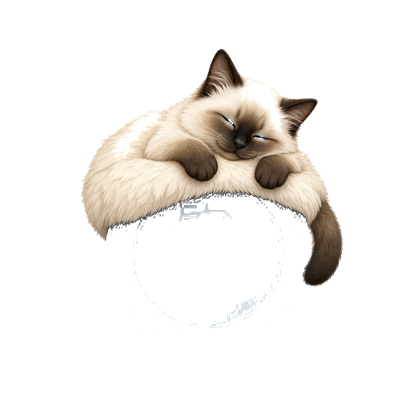
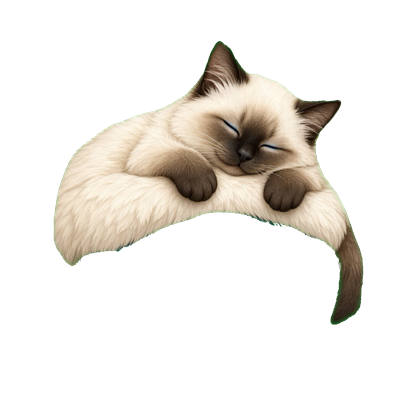
release: v1.4.7（更换暹罗猫主题图）

Changed region(s): [[0.1238, 0.0929, 0.8667, 0.7738], [0.5262, 0.7119, 0.619, 0.7738]]

diff --git a/docs/mockups/ow-hud-demo.html b/docs/mockups/ow-hud-demo.html
@@ -127,6 +127,7 @@ function setTheme(k){
   Array.prototype.slice.call(circle.querySelectorAll('.pxring')).forEach(function(d){d.remove();});
   var oldCat=circle.querySelector('.cat');
   if(oldCat) oldCat.remove();
+  Array.prototype.slice.call(circle.querySelectorAll('.catimg')).forEach(function(d){d.remove();});
   t.icons.forEach(function(ic){
     var d=document.createElement('div');
     d.className='deco';

diff --git a/src/MusicToppin/VersionInfo.cs b/src/MusicToppin/VersionInfo.cs
@@ -6,6 +6,6 @@ using System.Reflection;
 [assembly: AssemblyCompany("Music Toppin")]
 [assembly: AssemblyDescription("直播用「正在播放」悬浮窗")]
 [assembly: AssemblyCopyright("Copyright © 2026")]
-[assembly: AssemblyVersion("1.4.6.0")]
-[assembly: AssemblyFileVersion("1.4.6.0")]
-[assembly: AssemblyInformationalVersion("1.4.6")]
+[assembly: AssemblyVersion("1.4.7.0")]
+[assembly: AssemblyFileVersion("1.4.7.0")]
+[assembly: AssemblyInformationalVersion("1.4.7")]

diff --git a/installer/Installer.cs b/installer/Installer.cs
@@ -12,7 +12,7 @@ internal static class Program
 {
     internal const string AppName = "Music Toppin";
     internal const string AppExe = "MusicToppin.exe";
-    internal const string Version = "1.4.6";
+    internal const string Version = "1.4.7";
 
     private const string UninstallKey = @"Software\Microsoft\Windows\CurrentVersion\Uninstall\MusicToppin";
 

diff --git a/docs/distribution.md b/docs/distribution.md
@@ -36,7 +36,7 @@ signtool sign /fd sha256 /tr http://timestamp.digicert.com /td sha256 /a build\M
 
 ### 2. 版本号与更新日志
 
-已补 `src/MusicToppin/VersionInfo.cs`（当前 `AssemblyVersion 1.4.6.0`），安装器常量同步为 `1.4.6`。
+已补 `src/MusicToppin/VersionInfo.cs`（当前 `AssemblyVersion 1.4.7.0`），安装器常量同步为 `1.4.7`。
 每次发版改这几处：`src/MusicToppin/VersionInfo.cs`、`installer/Installer.cs` 的 `Version`、`CHANGELOG.md`（`MusicToppin.csproj` 仅历史兼容，顺手同步即可）。
 
 ### 3. 杀软白名单（决定"装完还能不能跑"）
@@ -64,7 +64,7 @@ signtool sign /fd sha256 /tr http://timestamp.digicert.com /td sha256 /a build\M
 | 渠道 | 作用 | 优点 | 代价 |
 |---|---|---|---|
 | **自己的落地页**（主） | 下载 + 教程 + 更新说明 | 完全可控、可埋统计、可放 30 秒上手视频 | 要域名/备案（国内服务器） |
-| **蓝奏云**（备） | 国内免登录直链 | 约 932 KB 秒传秒下，最适合小白 | 单文件 100MB 内、偶尔限速 |
+| **蓝奏云**（备） | 国内免登录直链 | 约 956 KB 秒传秒下，最适合小白 | 单文件 100MB 内、偶尔限速 |
 | **GitHub Releases** | 更新源 + 技术用户 | 免费、有 API、可放校验值 | 国内访问慢，需镜像 |
 | **QQ 群 / 微信群** | 种子用户、反馈 | 传播快、能直接收到崩溃反馈 | 人工维护 |
 | **winget** | 技术受众 | `winget install` 一条命令 | 需 PR 到 winget-pkgs，审核慢 |
@@ -93,7 +93,7 @@ signtool sign /fd sha256 /tr http://timestamp.digicert.com /td sha256 /a build\M
 
 ```json
 {
-  "version": "1.4.6",
+  "version": "1.4.7",
   "url": "https://example.com/musictoppin/MusicToppin-Setup.exe",
   "sha256": "7F906ADE…",
   "notes": "修复：解锁后立即回锁\n新增：背景透明度"
@@ -120,7 +120,7 @@ signtool sign /fd sha256 /tr http://timestamp.digicert.com /td sha256 /a build\M
 4. 手测：安装 → 首启向导 → 播放显示 → 穿透 → 卸载
 5. 签名 `MusicToppin.exe`（重新打包）→ 签名 `MusicToppin-Setup.exe`
 6. `Get-FileHash build\MusicToppin-Setup.exe -Algorithm SHA256`
-7. 在版本提交上打 tag（`git tag -a v1.4.6 -m "Music Toppin v1.4.6"`），推送 `main` 和 tag
+7. 在版本提交上打 tag（`git tag -a v1.4.7 -m "Music Toppin v1.4.7"`），推送 `main` 和 tag
 8. GitHub Release：必须已发布（不能 draft / prerelease），确认成为 Latest；只上传一个 `MusicToppin-Setup*.exe`，并确认资产 `digest` 为 `sha256:…` 非空
 9. 上传：落地页 + 蓝奏云 + GitHub Release（附 changelog 与 SHA256）
 10. 发公告（B 站动态 / QQ 群），配一段 30 秒「三步上屏」演示
@@ -133,7 +133,7 @@ signtool sign /fd sha256 /tr http://timestamp.digicert.com /td sha256 /a build\M
 
 > **Music Toppin** —— 开播时自动把「正在播放」显示在画面上。
 >
-> 约 932 KB，免安装运行时，支持网易云 / QQ音乐 / Apple Music / Spotify / 浏览器。
+> 约 956 KB，免安装运行时，支持网易云 / QQ音乐 / Apple Music / Spotify / 浏览器。
 >
 > 1. 双击安装
 > 2. 打开你常用的音乐软件放歌
@@ -156,4 +156,4 @@ signtool sign /fd sha256 /tr http://timestamp.digicert.com /td sha256 /a build\M
 | 平台规则 | — | 直播间挂链接有风险，走粉丝群/简介 |
 | 版权 | — | 只显示元信息，不碰音源；若 V2 内置播放要另外评估 |
 
-**体积是优势**：约 932 KB 的安装包在群文件、网盘、邮件里都几乎瞬传，比动辄 70 MB 的 Electron 方案更容易传播。
+**体积是优势**：约 956 KB 的安装包在群文件、网盘、邮件里都几乎瞬传，比动辄 70 MB 的 Electron 方案更容易传播。

diff --git a/README.md b/README.md
@@ -2,7 +2,7 @@
 
 在游戏 / 直播画面上，用「击杀播报」的方式显示**系统正在播放的音乐**。
 
-纯显示模式不需要登录账号，也不需要配置播放器：装上就自动读当前在放什么。**V2 已加入 B 站弹幕点歌**；点歌按平台登录情况取流，登录是可选的，只影响能放哪些歌。当前版本 **1.4.6**。
+纯显示模式不需要登录账号，也不需要配置播放器：装上就自动读当前在放什么。**V2 已加入 B 站弹幕点歌**；点歌按平台登录情况取流，登录是可选的，只影响能放哪些歌。当前版本 **1.4.7**。
 
 ![击杀播报浮窗](docs/screenshots/hud-stack.png)
 
@@ -199,7 +199,7 @@ Uninstall.exe /S                                      静默卸载
 发布方只需要挂一个静态 JSON：
 
 ```json
-{ "version": "1.4.6", "url": "https://…/MusicToppin-Setup.exe", "sha256": "…", "notes": "更新说明" }
+{ "version": "1.4.7", "url": "https://…/MusicToppin-Setup.exe", "sha256": "…", "notes": "更新说明" }
 ```
 
 - 也直接支持 GitHub Releases API（自动读 `tag_name` + `browser_download_url` + `body`）
@@ -255,8 +255,8 @@ Uninstall.exe /S                                      静默卸载
 
 | 项目 | 实测（本机 Win11，V2 构建，纯显示模式） |
 |---|---|
-| 安装包 | **约 932 KB** |
-| 主程序 | **约 482 KB**（.NET Framework 4.8，系统自带运行时） |
+| 安装包 | **约 956 KB** |
+| 主程序 | **约 505 KB**（.NET Framework 4.8，系统自带运行时） |
 | 内存（私有） | **25–33 MB**（点歌播放时才加载 WebView2，约 +160 MB） |
 | 内存（含共享） | 56 MB |
 | CPU | 空闲 **≈0 %**（500ms 轮询 + 2 秒缓存；点歌播放时由 WebView2 占用） |
@@ -282,9 +282,9 @@ powershell -NoProfile -ExecutionPolicy Bypass -File .\build.ps1
 产物：
 
 ```
-build\app\MusicToppin.exe        约 482 KB
+build\app\MusicToppin.exe        约 505 KB
 build\app\Uninstall.exe          约 15 KB
-build\MusicToppin-Setup.exe      约 932 KB
+build\MusicToppin-Setup.exe      约 956 KB
 ```
 
 构建链路：`toolchain.ps1` 定位 Roslyn `csc`（`Microsoft.Net.Compilers.Toolset`）、.NET Framework 4.8 引用程序集、WinRT 元数据（`Microsoft.Windows.SDK.Contracts`）→ 编译主程序（引用 `Windows.Media.winmd` 调 SMTC）→ 编译卸载器 → 打包 payload → 嵌入安装器。
@@ -394,7 +394,7 @@ Uninstall.exe /S                              静默卸载
 
 > 弹幕「连上了但收不到」的完整复盘与排查方法：[docs/postmortem-danmaku.md](docs/postmortem-danmaku.md)
 
-播放依赖 **WebView2 Runtime**（Windows 11 自带；Windows 10 一般随 Edge 安装）。不用点歌功能时不会加载它，纯显示模式仍是 **约 482 KB / 25–33 MB** 的轻量形态（弹幕 brotli 解码库约 +1.3 MB 只在安装包里）。
+播放依赖 **WebView2 Runtime**（Windows 11 自带；Windows 10 一般随 Edge 安装）。不用点歌功能时不会加载它，纯显示模式仍是 **约 505 KB / 25–33 MB** 的轻量形态（弹幕 brotli 解码库约 +1.3 MB 只在安装包里）。
 ## 下一步（V2）
 
 - S3 剩余：Apple Music（只有试听）；酷狗/酷我按需求先不做，见 [docs/v2-sources.md](docs/v2-sources.md)

diff --git a/docs/v2-handoff.md b/docs/v2-handoff.md
@@ -15,7 +15,7 @@
 | 最新提交 | 见 `git log -1` |
 | 构建 | `powershell -ExecutionPolicy Bypass -File .\build.ps1`（**不需要 .NET SDK**，首次自动下载工具链到 `.cache\nuget`） |
 | 测试 | `powershell -ExecutionPolicy Bypass -File .\run-tests.ps1`（214 项，退出码 0 = 全过） |
-| 产物 | `build\MusicToppin-Setup.exe`（约 932 KB）、`build\app\`（主程序约 482 KB） |
+| 产物 | `build\MusicToppin-Setup.exe`（约 956 KB）、`build\app\`（主程序约 505 KB） |
 | 运行 | 装好后从托盘启动；调试直接跑 `build\app\MusicToppin.exe` |
 
 **重要**：项目是 `.NET Framework 4.8` + 直接调 Roslyn `csc`（**不是** `dotnet build`，仓库里的 `MusicToppin.csproj` 是历史遗留，不要用它构建）。
@@ -160,7 +160,7 @@ NowPlaying.NextTitle / NextArtist / QueueCount
 
 | 决策 | 原因 | 代价 |
 |---|---|---|
-| 播放用 **WebView2** 而不是 mpv/ffmpeg | Chromium 原生支持 B 站 DASH(fMP4)，且能注入 Referer 绕过热链；mpv 要多 30–70 MB | 安装包 → **约 932 KB**；播放时多 7 个 `msedgewebview2` 进程，约 **+160 MB** 内存 |
+| 播放用 **WebView2** 而不是 mpv/ffmpeg | Chromium 原生支持 B 站 DASH(fMP4)，且能注入 Referer 绕过热链；mpv 要多 30–70 MB | 安装包 → **约 956 KB**；播放时多 7 个 `msedgewebview2` 进程，约 **+160 MB** 内存 |
 | **双模式**：纯显示 / 点歌 | 保住 V1「轻量」卖点 | 首次播放时才创建 WebView2（纯显示模式 25–33 MB） |
 | 弹幕优先 **getDanmuInfo（wbi）+ 2245**，旧 getConf 兜底 | 旧接口对部分房间只推人气包；新接口能正常订阅弹幕 | 需要 wbi 签名；旧接口随时可能下线 |
 | 鉴权 **protover=3**，支持 **brotli + zlib** | 部分房间只下发 brotli；只支持 zlib 会「鉴权成功但 0 条弹幕」 | 内置 BrotliSharpLib + Unsafe，安装包约 +1.3 MB |
@@ -236,7 +236,7 @@ MusicToppin.exe --login-test=netease      打开网易云登录窗口（netease|
 ## 7. 新会话建议的第一次动作
 
 1. `git checkout main && git pull`
-2. `run-tests.ps1` + `build.ps1` 确认环境（应全绿、约 932 KB）
+2. `run-tests.ps1` + `build.ps1` 确认环境（应全绿、约 956 KB）
 3. `MusicToppin.exe --room=5050` 跑 30 秒，看日志里有没有 `danmaku auth ok` 与 `song request`
 4. `MusicToppin.exe --fake-danmaku="点歌 起风了"` 验证网易云链路（日志应有 `resolved:` + `queue play:`）
 5. 接着做 **S3 剩余**：Apple Music（只有试听），或按用户要求再评估酷狗/酷我
@@ -246,5 +246,5 @@ MusicToppin.exe --login-test=netease      打开网易云登录窗口（netease|
 - `main`：唯一开发线，已用 merge 提交把 **v1.1.1**（叠加层 / 离屏采集 / 遮挡模式）合进来，冲突点都在
   `TrayApp.cs`（菜单项/字段）、`Settings.cs`（注册表项）、`CHANGELOG.md`，处理原则是**两边都保留**。
 - `fix/v1`：停在 v1.1.1 发布点，只做 V1 修复；不要在这里加 V2 功能。
-- **版本号 1.4.6**（`VersionInfo.cs` + `installer/Installer.cs`）。
+- **版本号 1.4.7**（`VersionInfo.cs` + `installer/Installer.cs`）。
   发版时确认 GitHub Release 的 tag 与之一致，否则更新器会比对失败。

diff --git a/docs/v2-architecture.md b/docs/v2-architecture.md
@@ -4,7 +4,7 @@
 > 本文回答两件事：**能不能在当前架构上做**，以及 **BV 点播会把架构推向哪里**。
 >
 > **说明**：本文是 V2 立项时的评估快照，里面的体积、测试数量和弹幕链路（当时还是 getConf + zlib）已被后续版本更新。
-> 最新数据与实现请以 [README](../README.md)、[CHANGELOG](../CHANGELOG.md)、[v2-handoff](v2-handoff.md) 为准（当前版本 1.4.6）。
+> 最新数据与实现请以 [README](../README.md)、[CHANGELOG](../CHANGELOG.md)、[v2-handoff](v2-handoff.md) 为准（当前版本 1.4.7）。
 
 ---
 
@@ -15,7 +15,7 @@
 ```
 
 - 只读：不播放、不联网、不碰版权内容
-- 卖点：当时约 96 KB、26 MB 内存、0.16% CPU、无运行时依赖（当前约 482 KB）
+- 卖点：当时约 96 KB、26 MB 内存、0.16% CPU、无运行时依赖（当前约 505 KB）
 - 已有可复用资产：分层窗口渲染、颜色/位置/透明度、绿幕、上屏向导、更新器、托盘与热键
 
 ## 二、V2 必须新增的四层
@@ -57,7 +57,7 @@
 | B. mpv/ffmpeg sidecar | 内存低（~50 MB）、格式最全、可做本地缓存 | 体积 +30–70 MB，进程管理与 IPC 复杂，杀软更敏感 | 作为"无 WebView2 环境"的兜底 |
 | C. Media Foundation | 零依赖、零体积 | DASH/FLV 不可靠，热链头无解 | 不采用 |
 
-> 关键取舍：V1 的"极低占用"卖点在点歌模式下必然被打破。建议做成**双模式**——纯显示模式（当时 96 KB / 26 MB，当前约 482 KB / 25–33 MB）和点歌模式（加载 WebView2），用户自己选。
+> 关键取舍：V1 的"极低占用"卖点在点歌模式下必然被打破。建议做成**双模式**——纯显示模式（当时 96 KB / 26 MB，当前约 505 KB / 25–33 MB）和点歌模式（加载 WebView2），用户自己选。
 
 ### 3.4 双模式下的状态源
 
@@ -202,6 +202,6 @@ view API（拿 cid/标题/时长，无需 cookie）
 
 1. S3 剩余：Apple Music（只有试听）；QQ 音乐 / B 站 BV 已接入
 2. S5 已完成（「下一首 / 队列」已进 HUD，点歌成功/失败有叠加层提示）
-3. 发布前确认版本号（当前 1.4.6）与 GitHub Release tag 一致
+3. 发布前确认版本号（当前 1.4.7）与 GitHub Release tag 一致
 
 本仓库当前状态：V1.1.1 已发布并合入 main；V2 的 S1（队列）、S2（弹幕）、S3（网易云 / QQ 音乐）、S4（BV 播放）、S5（下一首 / 队列 / 视频小窗）以及 v1.3 权限、v1.4 环状毛玻璃与上屏向导均已完成，带 214 项单元测试。

diff --git a/docs/postmortem-danmaku.md b/docs/postmortem-danmaku.md
@@ -1,6 +1,6 @@
 # 复盘：部分直播间「连上了但收不到弹幕」 (2026-11)
 
-> 本文记录的是 v1.2.5 的修复过程；当前 v1.4.6 沿用同一套弹幕链路（getDanmuInfo + brotli + 登录 uid），并在此基础上增加了点歌/切歌权限与上屏向导。
+> 本文记录的是 v1.2.5 的修复过程；当前 v1.4.7 沿用同一套弹幕链路（getDanmuInfo + brotli + 登录 uid），并在此基础上增加了点歌/切歌权限与上屏向导。
 >
 > 记录一次从 v1.2.0 折腾到 v1.2.5 的排查。**结论先写在最前面**，细节和以后怎么避免放后面。
 

diff --git a/docs/v2-danmaku.md b/docs/v2-danmaku.md
@@ -1,8 +1,8 @@
-# B 站直播弹幕接入笔记（V2 · S2，按 v1.4.6 更新）
+# B 站直播弹幕接入笔记（V2 · S2，按 v1.4.7 更新）
 
 > 记录协议事实、为什么这么做、以及再踩坑时先看哪里。代码在 `src/MusicToppin/Danmaku.cs`。
 >
-> 本文以 **v1.4.6** 为准。更早的 v1.2.0 只支持 getConf + zlib，已被 v1.2.5 的 brotli / getDanmuInfo / 登录 uid 方案取代。
+> 本文以 **v1.4.7** 为准。更早的 v1.2.0 只支持 getConf + zlib，已被 v1.2.5 的 brotli / getDanmuInfo / 登录 uid 方案取代。
 
 ## 1. 链路
 

diff --git a/docs/git-push.md b/docs/git-push.md
@@ -38,8 +38,8 @@ git push -u origin main
 powershell -ExecutionPolicy Bypass -File .\build.ps1
 # 3. 提交 + 打 tag（tag 必须指向版本提交）
 git add -A
-git commit -m "release: v1.4.6"
-git tag -a v1.4.6 -m "Music Toppin v1.4.6"
+git commit -m "release: v1.4.7"
+git tag -a v1.4.7 -m "Music Toppin v1.4.7"
 git push origin main --tags
 # 4. 在 GitHub 上建 Release（已发布、Latest、不能 draft/prerelease）
 #    只传 build\MusicToppin-Setup.exe，并确认 asset digest 为 sha256:… 非空

diff --git a/CHANGELOG.md b/CHANGELOG.md
@@ -1,5 +1,11 @@
 # Changelog
 
+## v1.4.7（2026-11-27）
+
+### 变更
+
+- 更换暹罗猫主题图：绿幕抠图、透明背景、更贴近趴圈效果。
+
 ## v1.4.6（2026-11-27）
 
 ### 新增
